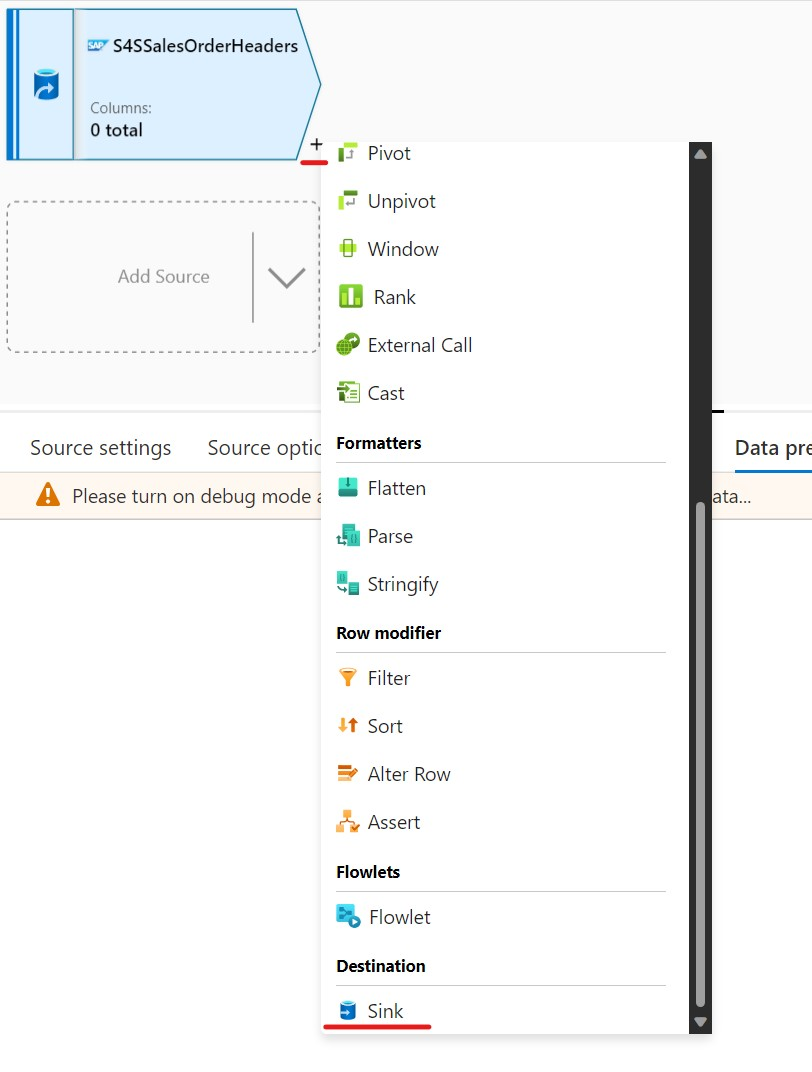
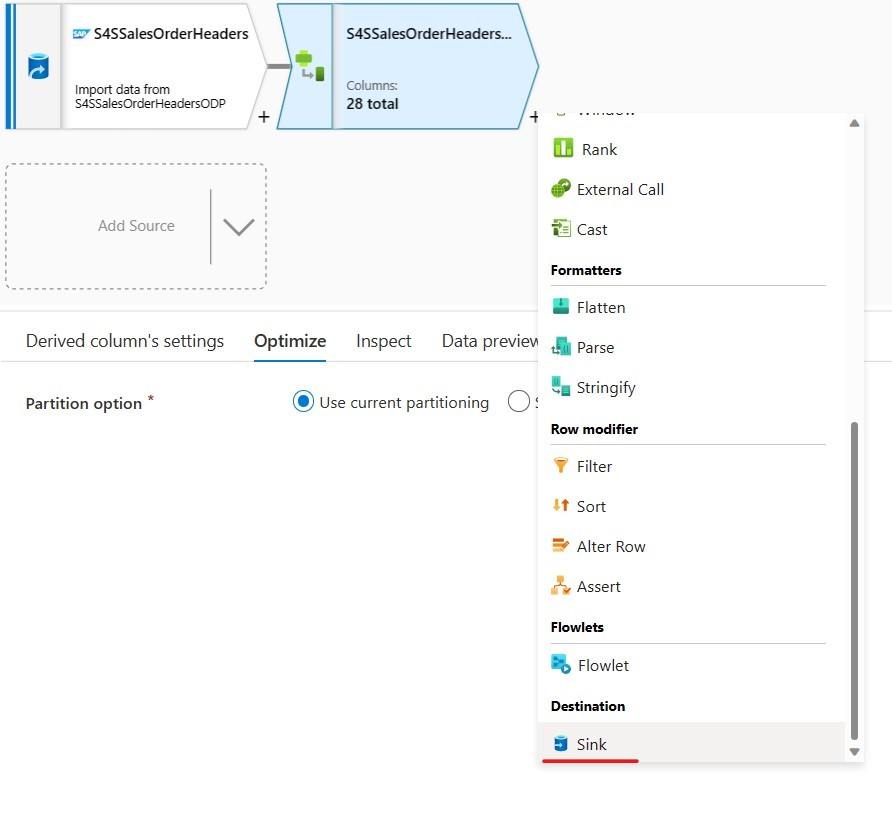
updated the ODP instructions

diff --git a/ExtractSalesOrderHeadersUsingODP.md b/ExtractSalesOrderHeadersUsingODP.md
@@ -181,14 +181,14 @@ This dataset will act as the `sink` in our pipeline.
 
 <img src="images/synapsews/DFSourceSettings.jpg">
 
+* Turn on `Data Flow Debug`
+
+<img src="images/synapsews/EnableDFDebug.jpg">
+
 * In `Source options`:
     * `Key Columns`: `SALESDOCUMENT` (Use the `Refresh` button)
 
 <img src="images/synapsews/DFSourceOptions.jpg">
-
-* Turn on `Data Flow Debug`
-
-<img src="images/synapsews/EnableDFDebug.jpg">
 
 * In `Projection`, select `Import projection`
 
@@ -202,15 +202,15 @@ This dataset will act as the `sink` in our pipeline.
 <img src="images/synapsews/DFDerivedColumn.jpg">
 
 * In `Derived column's settings`
-** OutputStream Name = S4SSalesOrderHeadersUpd
-** Add `Derived Columns` using the formulas beneath. 
+	* OutputStream Name = S4SSalesOrderHeadersUpd
+	* Add `Derived Columns` using the formulas beneath. 
 
 ```
-CREATIONDATE = toDate(CREATIONDATE, "yyyy-MM-dd")
-PRICINGDATE = toDate(PRICINGDATE, "yyyy-MM-dd")
-BILLINGDOCUMENTDATE = toDate(BILLINGDOCUMENTDATE, "yyyy-MM-dd")
-LASTCHANGEDATE = toDate(LASTCHANGEDATE, "yyyy-MM-dd")
-CREATIONTIME = toTimestamp(concatWS(" ", toString(toDate(CREATIONDATE, "yyyy-MM-dd")), CREATIONTIME), "yyyy-MM-dd HH:mm:ss")
+CREATIONDATE = toDate(CREATIONDATE, "yyyyMMdd")
+PRICINGDATE = toDate(PRICINGDATE, "yyyyMMdd")
+BILLINGDOCUMENTDATE = toDate(BILLINGDOCUMENTDATE, "yyyyMMdd")
+LASTCHANGEDATE = toDate(LASTCHANGEDATE, "yyyyMMdd")
+CREATIONTIME = toTimestamp(concatWS(" ", CREATIONDATE, CREATIONTIME), "yyyyMMdd HHmmss")
 ```
 <img src="images/synapsews/DFDerivedColumnSettings.png">
 
@@ -220,14 +220,14 @@ CREATIONTIME = toTimestamp(concatWS(" ", toString(toDate(CREATIONDATE, "yyyy-MM-
 <img src="images/synapsews/DFAddSink.jpg">
 
 * In the `Sink` tab
-** change the `Output stream name`, we used `SynSalesOrderHeaders`
-** Point the `Dataset`to your DataSet linked to the Synapse Sales Order Headers
+	* change the `Output stream name`, we used `SynSalesOrderHeaders`
+	* Point the `Dataset`to your DataSet linked to the Synapse Sales Order Headers
 
 <img src="images/synapsews/DFsink.jpg">
 
 * In the `Settings`tab
-** Verify `Allow insert`, `Allow delete`, `Allow upsert`, `Allow update` is checked
-** KeyColums : select `SalesDocument`, this is the key column of the  SalesOrderHeader Table in Synapse.
+	* Verify `Allow insert`, `Allow delete`, `Allow upsert`, `Allow update` is checked
+	* KeyColums : select `SalesDocument`, this is the key column of the  SalesOrderHeader Table in Synapse.
 
 <img src="images/synapsews/DFSinkSettings.jpg">
 
